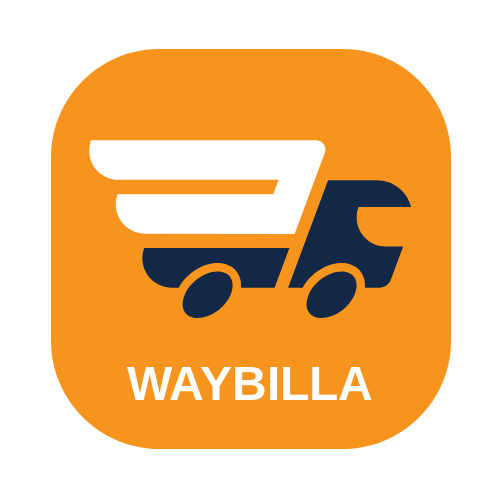
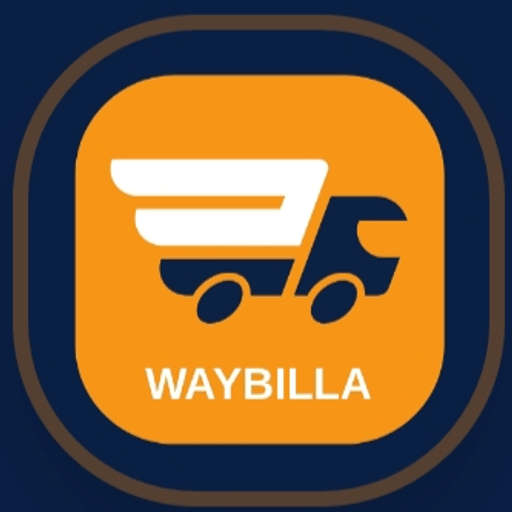
build: update application assets and service worker
Updated favicon and icon assets, incremented cache version to v40, and configured maskable icons in the manifest for improved PWA integration.

diff --git a/index.html b/index.html
@@ -94,13 +94,13 @@
     </script>
 
     <!-- Favicons & Touch Icons with Cache Buster for Googlebot -->
-    <link rel="icon" type="image/png" sizes="32x32" href="/logo.png?v=3" />
-    <link rel="icon" type="image/png" sizes="192x192" href="/icon-192.png?v=3" />
-    <link rel="icon" type="image/png" sizes="512x512" href="/icon-512.png?v=3" />
-    <link rel="shortcut icon" href="/logo.png?v=3" />
-    <link rel="apple-touch-icon" sizes="180x180" href="/icon-192.png?v=3" />
-    <link rel="preload" href="/logo.png?v=3" as="image" />
-    <link rel="manifest" href="/manifest.json" />
+    <link rel="icon" type="image/png" sizes="32x32" href="/favicon-32x32.png?v=5" />
+    <link rel="icon" type="image/png" sizes="192x192" href="/icon-192.png?v=5" />
+    <link rel="icon" type="image/png" sizes="512x512" href="/icon-512.png?v=5" />
+    <link rel="shortcut icon" href="/logo.png?v=5" />
+    <link rel="apple-touch-icon" sizes="180x180" href="/apple-touch-icon.png?v=5" />
+    <link rel="preload" href="/logo.png?v=5" as="image" />
+    <link rel="manifest" href="/manifest.json?v=5" />
     <meta name="theme-color" content="#0A1F44" />
     <meta name="apple-mobile-web-app-capable" content="yes" />
     <meta name="apple-mobile-web-app-status-bar-style" content="black-translucent" />

diff --git a/src/main.tsx b/src/main.tsx
@@ -75,15 +75,15 @@ if (typeof window !== 'undefined') {
 // Register Universal Service Worker for offline caching, background sync, and push notifications
 if ('serviceWorker' in navigator) {
   // Purge any stale client caches if version changed
-  if (typeof caches !== 'undefined' && localStorage.getItem('wb_sw_v') !== 'v35') {
+  if (typeof caches !== 'undefined' && localStorage.getItem('wb_sw_v') !== 'v40') {
     caches.keys().then((names) => {
       names.forEach((name) => {
-        if (name !== 'waybilla-offline-cache-v35') {
+        if (name !== 'waybilla-offline-cache-v40') {
           caches.delete(name);
         }
       });
     });
-    localStorage.setItem('wb_sw_v', 'v35');
+    localStorage.setItem('wb_sw_v', 'v40');
   }
 
   window.addEventListener('load', () => {

diff --git a/public/sw.js b/public/sw.js
@@ -2,15 +2,18 @@
 // Enables 100% offline access when opened from Google Chrome / Safari / Home Screen
 // Caches app shell, scripts, styles, images, and coordinates offline data sync
 
-const CACHE_NAME = 'waybilla-offline-cache-v35';
+const CACHE_NAME = 'waybilla-offline-cache-v40';
 const STATIC_ASSETS = [
   '/',
   '/index.html',
   '/manifest.json',
   '/logo.png',
-  '/waybilla_box_logo.png',
   '/icon-192.png',
-  '/icon-512.png'
+  '/icon-512.png',
+  '/icon-192-maskable.png',
+  '/icon-512-maskable.png',
+  '/apple-touch-icon.png',
+  '/favicon-32x32.png'
 ];
 
 // Optional Firebase Messaging Compat scripts for native Web Push
